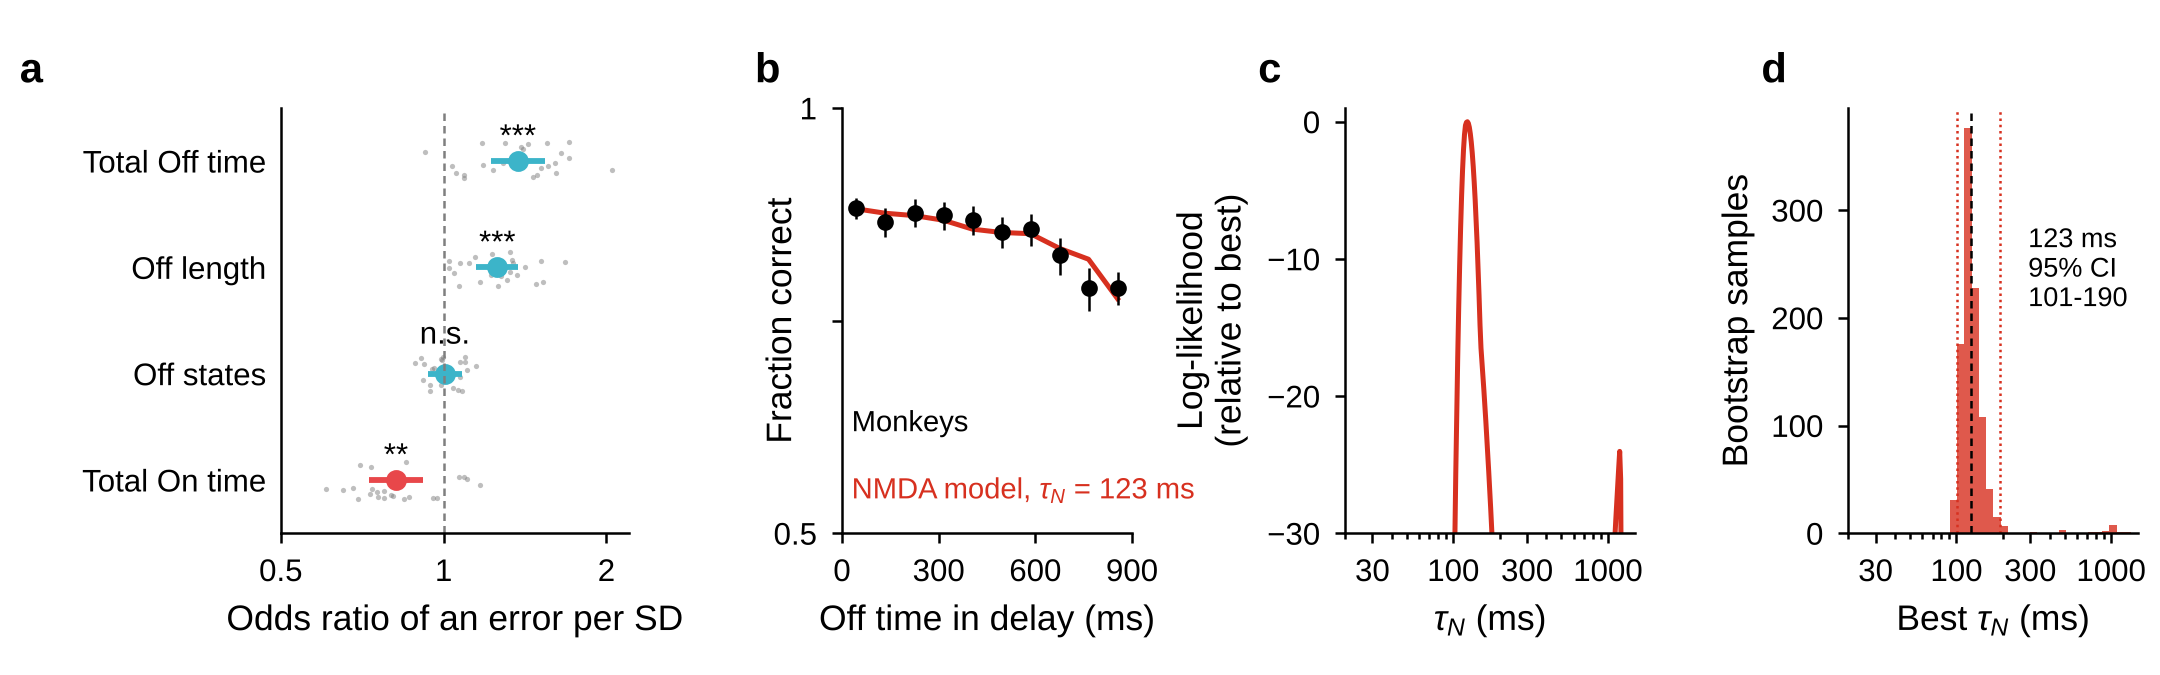
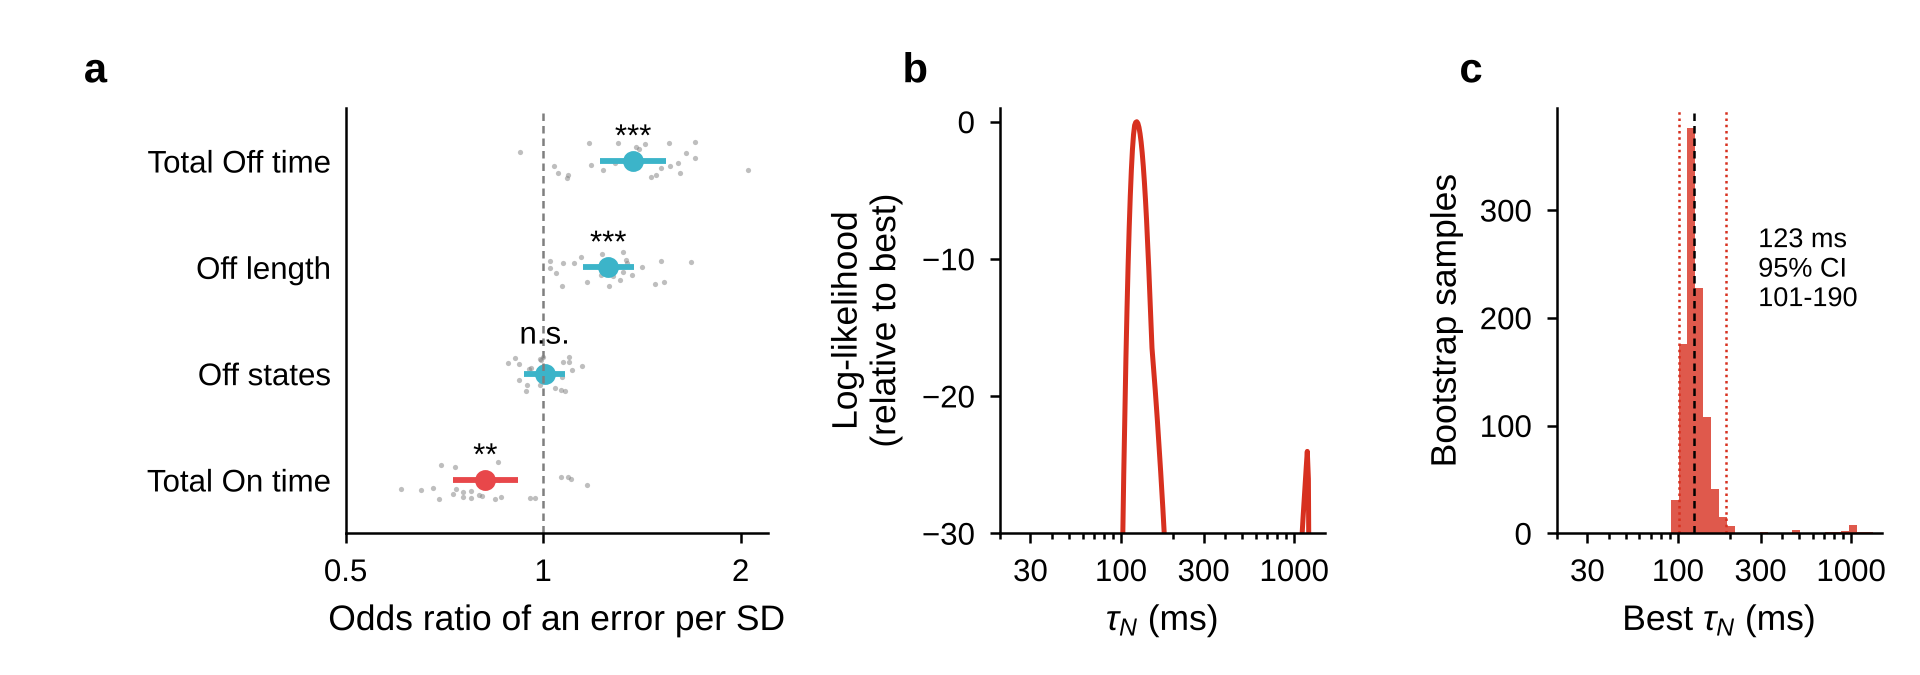
paper: Figure 3 without the fraction-correct panel (odds ratios, tau_N likelihood, bootstrap)
Claude-Session: https://claude.ai/code/session_01Muxo6fVhqMZ2e3pmGJiRgd

diff --git a/paper/scripts/fig3_behaviour_tau.py b/paper/scripts/fig3_behaviour_tau.py
@@ -2,10 +2,9 @@
 
 a, odds ratio of an error per within-session SD of each On/Off statistic (logistic GLMM fixed effect, 95% CI),
    with each session's weight as grey dots; stars from the likelihood-ratio p.
-b, fraction correct against Off time, all 15,468 trials pooled (95% Wilson intervals), and the NMDA model with the
-   best-fitting tau_N (red): P(correct) = p0 x [P(held) + G x P(lost)], G = 1/8 (a guess among the 8 cues).
-c, log-likelihood of the fit against tau_N, relative to the best.
-d, best tau_N in 1,000 bootstraps over sessions, with the 95% interval (dotted) and the fit to all data (dashed).
+b, log-likelihood of the fit of tau_N to the monkeys' fraction correct against Off time (all 15,468 trials pooled;
+   P(correct) = p0 x [P(held) + G x P(lost)], G = 1/8, a guess among the 8 cues), relative to the best.
+c, best tau_N in 1,000 bootstraps over sessions, with the 95% interval (dotted) and the fit to all data (dashed).
 Model curves P(held | Off) for each tau_N come from the fitted NMDA model with its own dips, only tau_N changed
 (paper_model/tau_sweep.py); the fit follows paper_model/fit_tau_pooled.py.
 
@@ -23,7 +22,7 @@ import matplotlib  # noqa: E402
 matplotlib.use('Agg')
 import matplotlib.pyplot as plt  # noqa: E402
 
-from paper_model.fit_tau_behaviour import DATA, EDGES, NB, P0, bins, model_curves, wilson  # noqa: E402
+from paper_model.fit_tau_behaviour import DATA, NB, P0, bins, model_curves  # noqa: E402
 from paper_model.fit_tau_pooled import best, G, N_BOOT  # noqa: E402
 
 GLMM, OUT = sys.argv[1:3]
@@ -68,9 +67,9 @@ boot = np.array([fine[best(ks[idx].sum(0), ns[idx].sum(0), Hf)[0]]
                  for idx in (rng.integers(0, len(names), len(names)) for _ in range(N_BOOT))])
 med, lo95, hi95 = np.percentile(boot, (50, 2.5, 97.5))
 
-fig = plt.figure(figsize=(7.2, 2.25))
-gs = fig.add_gridspec(1, 4, width_ratios=[1.2, 1, 1, 1], wspace=0.7, left=0.13, right=0.99, top=0.84, bottom=0.21)
-a, bx, cx, dx = (fig.add_subplot(gs[0, q]) for q in range(4))
+fig = plt.figure(figsize=(6.4, 2.25))
+gs = fig.add_gridspec(1, 3, width_ratios=[1.3, 1, 1], wspace=0.65, left=0.18, right=0.98, top=0.84, bottom=0.21)
+a, cx, dx = (fig.add_subplot(gs[0, q]) for q in range(3))
 
 # a: odds ratio of an error per SD of each statistic
 glmm = pd.read_csv(f'{GLMM}/joint_glmm.csv')
@@ -92,27 +91,15 @@ a.set_xticks([0.5, 1, 2], ['0.5', '1', '2']); a.xaxis.set_minor_locator(matplotl
 a.set_yticks(range(len(stats_)), [r[1] for r in stats_]); a.set_ylim(len(stats_) - 0.5, -0.5)
 a.tick_params(axis='y', length=0)
 a.set_xlabel('Odds ratio of an error per SD')
-letter(a, 'a', x=-0.75)
+letter(a, 'a', x=-0.62)
 
-# b: fraction correct against Off time, data and best-fitting NMDA model
-cen = 900 * (EDGES[:-1] + np.minimum(EDGES[1:], 1)) / 2
-pk = k / n; lo, hi = wilson(k, n)
-bx.plot(cen, p0 * (Hf[i] + G * (1 - Hf[i])), color=C_FIT, lw=1.2)
-bx.errorbar(cen, pk, yerr=[pk - lo, hi - pk], fmt='o', ms=3, color=INK, elinewidth=0.6, capsize=0)
-bx.set_xlim(0, 900); bx.set_xticks([0, 300, 600, 900]); bx.set_ylim(0.5, 1)
-bx.set_yticks([0.5, 0.75, 1], ['0.5', '', '1']); bx.yaxis.labelpad = -6
-bx.set_xlabel('Off time in delay (ms)'); bx.set_ylabel('Fraction correct')
-bx.text(30, 0.62, 'Monkeys', fontsize=7, color=INK)
-bx.text(30, 0.54, rf'NMDA model, $\tau_N$ = {tau:.0f} ms', fontsize=7, color=C_FIT)
-letter(bx, 'b')
-
-# c: likelihood profile over tau_N
+# b: likelihood profile over tau_N
 cx.plot(fine, prof, color=C_FIT, lw=1.2)
 log_axis(cx); cx.set_ylim(-30, 1); cx.set_yticks([-30, -20, -10, 0])
 cx.set_xlabel(r'$\tau_N$ (ms)'); cx.set_ylabel('Log-likelihood\n(relative to best)')
-letter(cx, 'c')
+letter(cx, 'b')
 
-# d: bootstrap over sessions
+# c: bootstrap over sessions
 edges = np.exp(np.linspace(np.log(20), np.log(1500), 41))
 dx.hist(boot, bins=edges, color=C_FIT, alpha=0.8, lw=0)
 log_axis(dx)
@@ -122,8 +109,7 @@ dx.axvline(tau, color=INK, lw=0.6, ls=(0, (3, 2)))
 dx.set_xlabel(r'Best $\tau_N$ (ms)'); dx.set_ylabel('Bootstrap samples')
 dx.text(0.62, 0.62, f'{tau:.0f} ms\n95% CI\n{lo95:.0f}-{hi95:.0f}', transform=dx.transAxes, ha='left', va='center',
         fontsize=6.5)
-letter(dx, 'd')
+letter(dx, 'c')
 
 fig.savefig(OUT, dpi=300)
-print(f'best tau_N {tau:.1f} ms, p0 {p0:.3f}; bootstrap median {med:.0f}, 95% CI {lo95:.0f}-{hi95:.0f};'
-      f' fraction correct by bin {np.round(pk, 3).tolist()}')
+print(f'best tau_N {tau:.1f} ms, p0 {p0:.3f}; bootstrap median {med:.0f}, 95% CI {lo95:.0f}-{hi95:.0f}')
